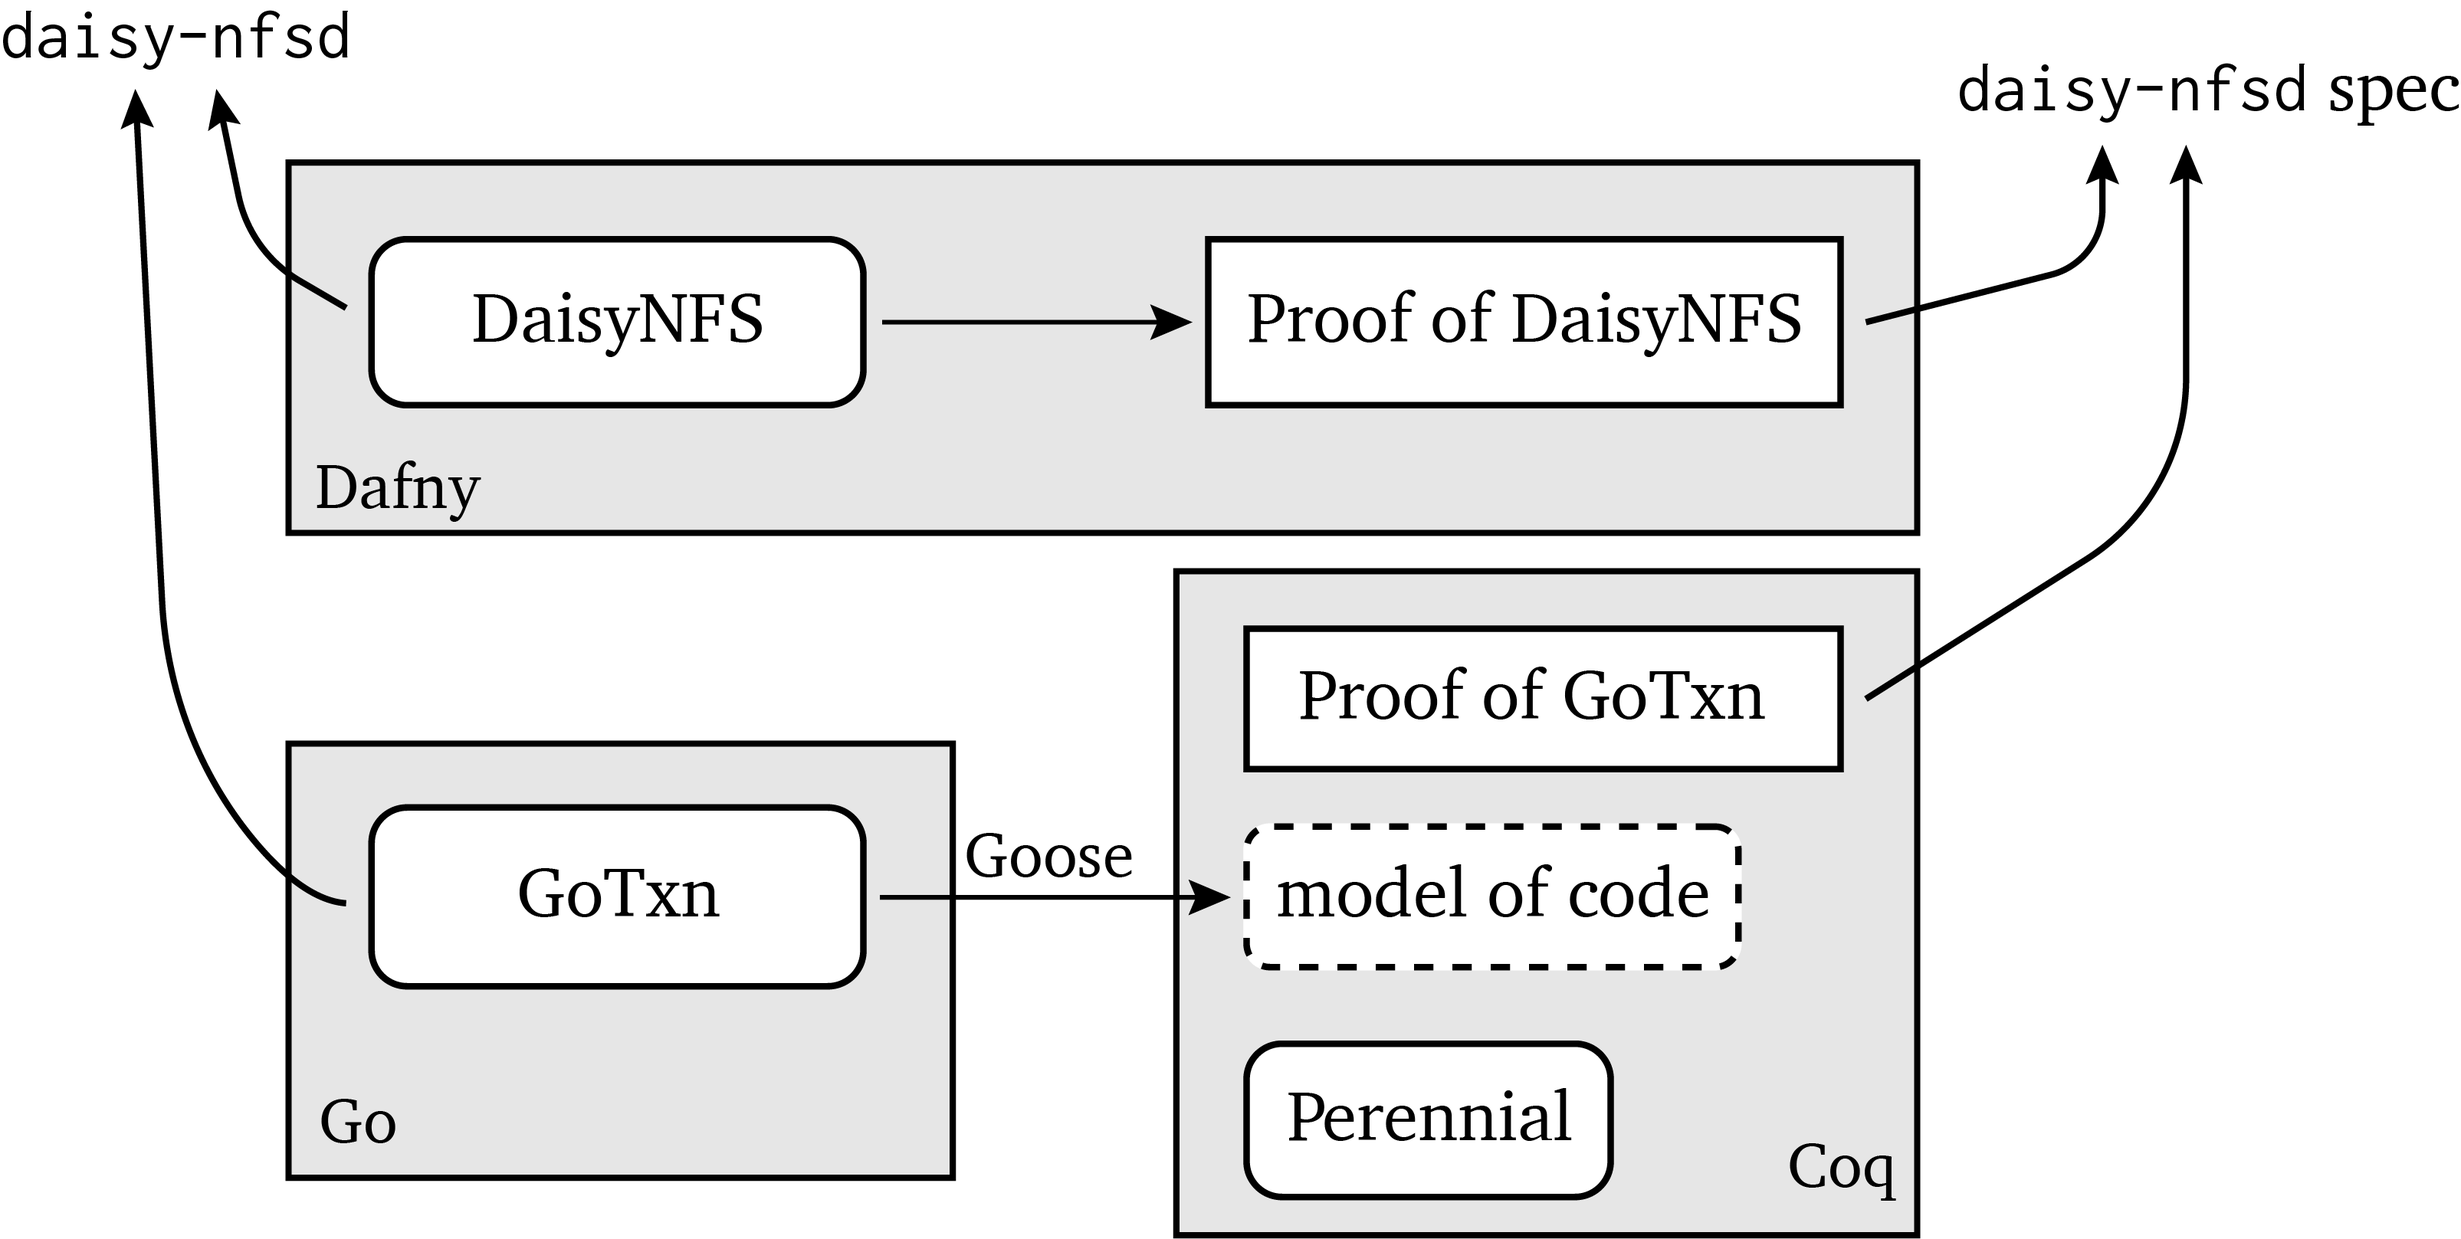
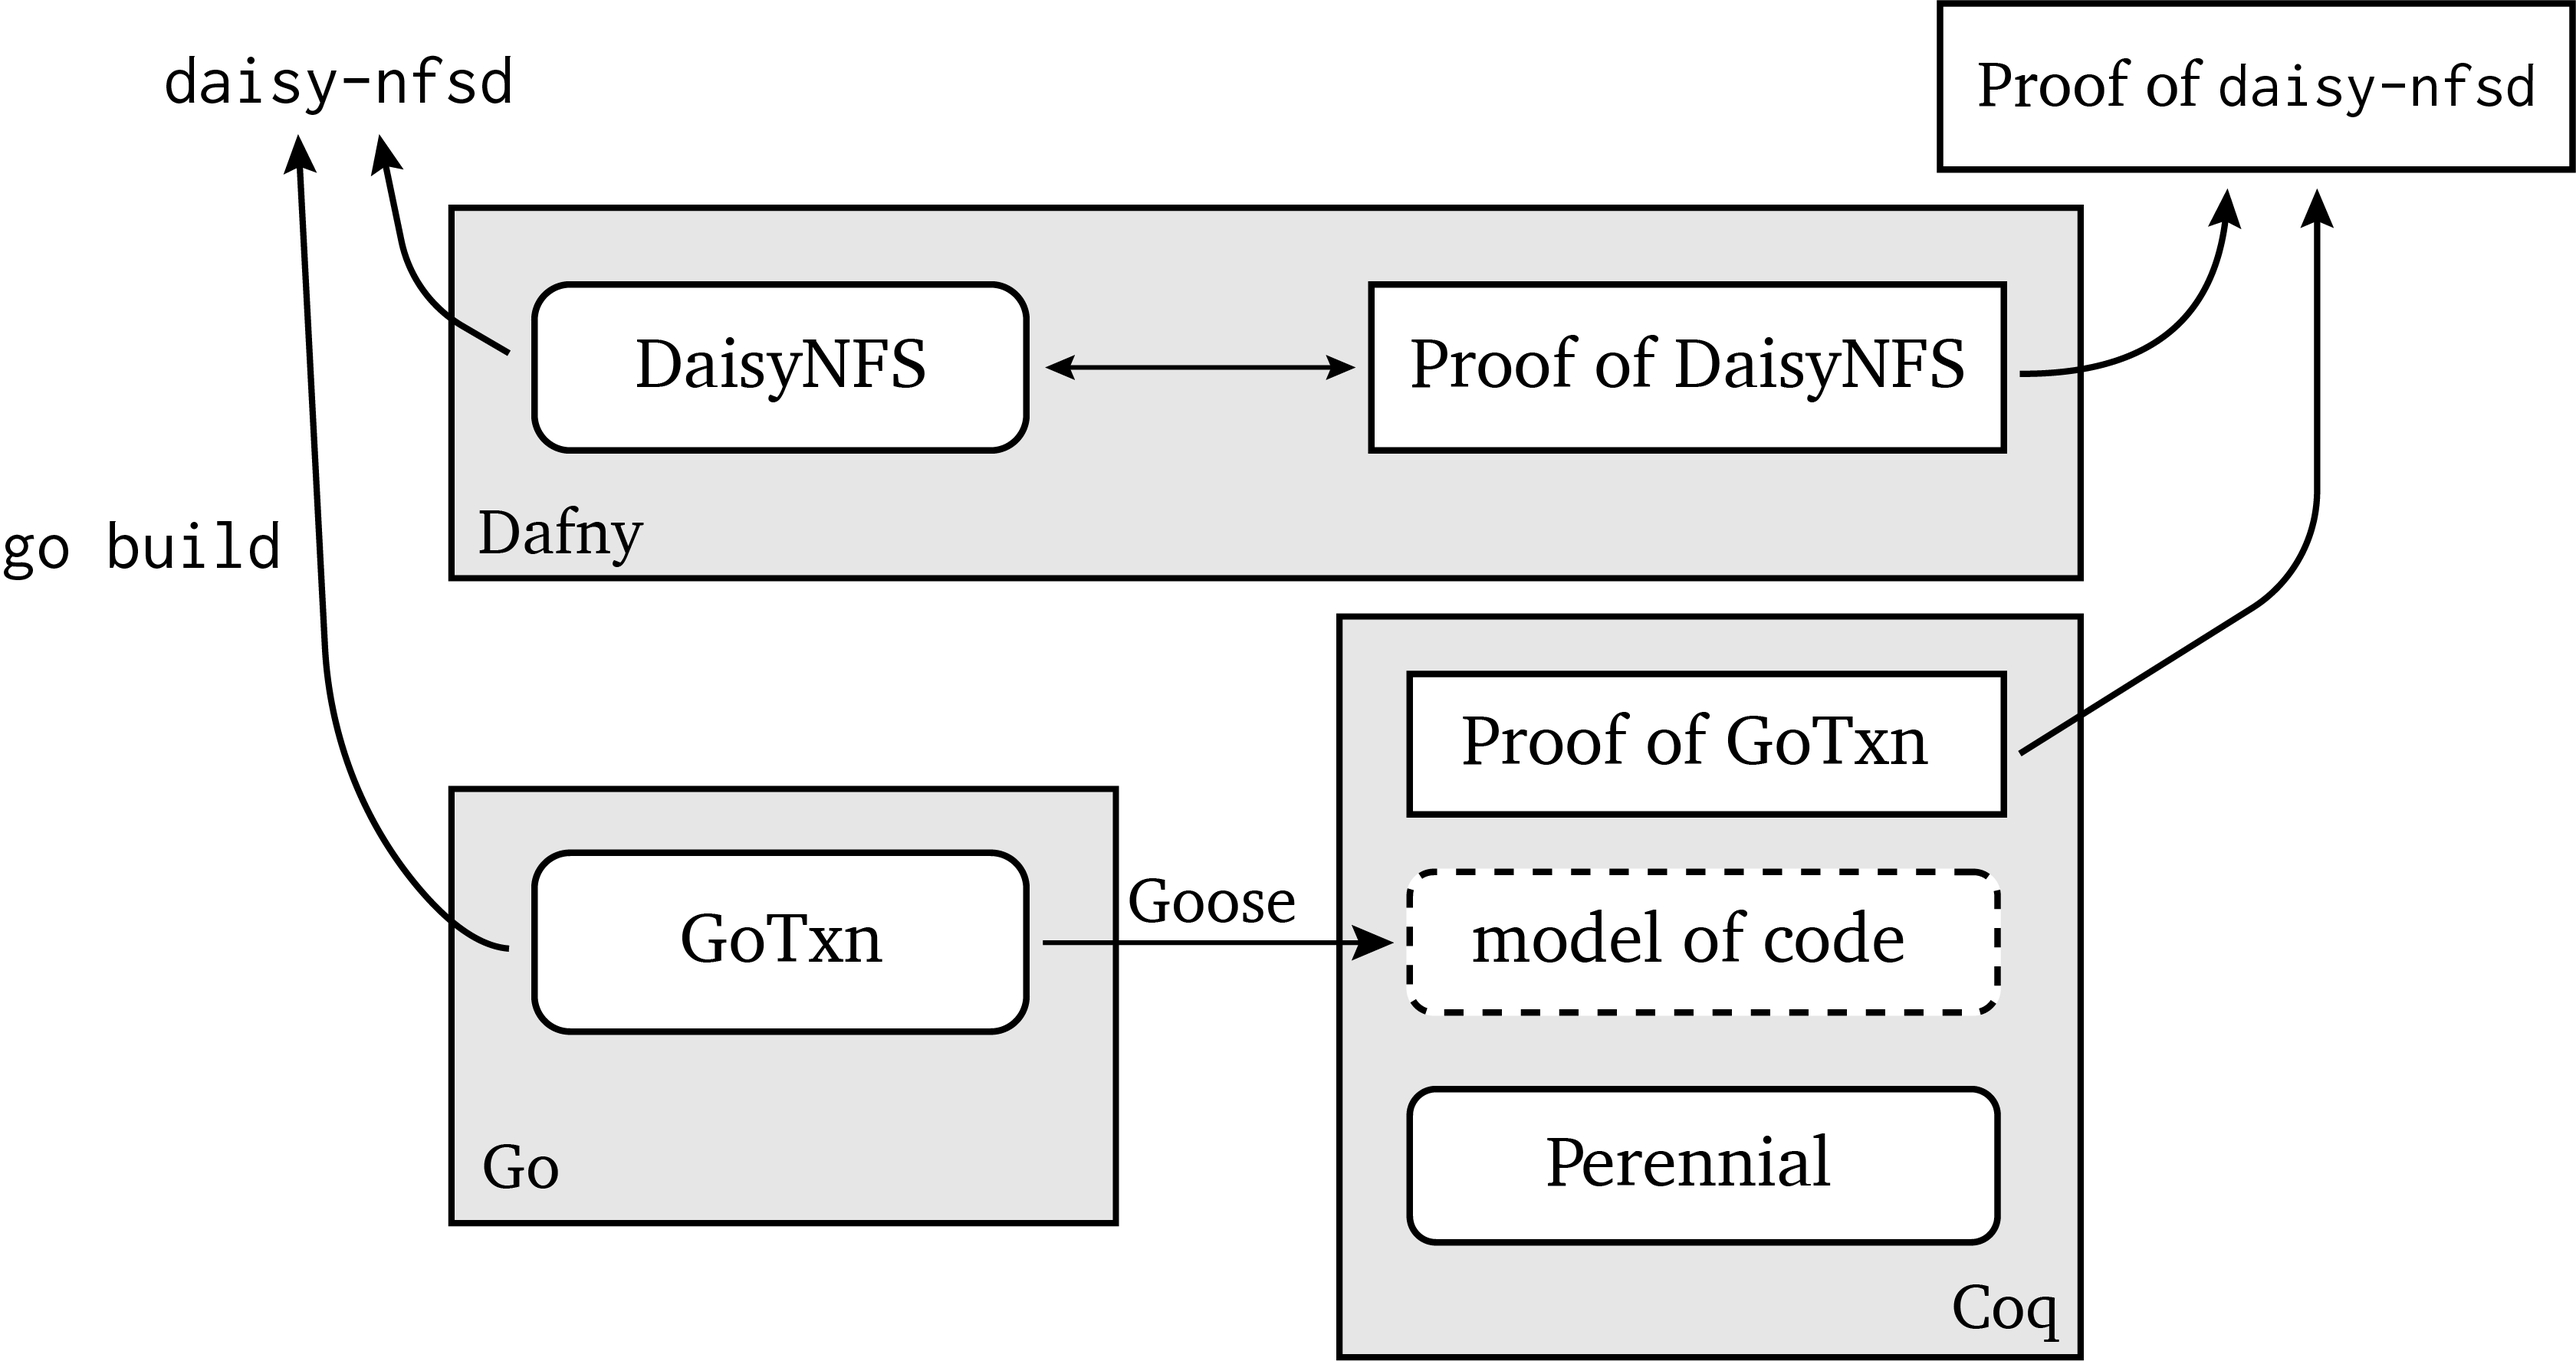
Fit overview figure in better

Changed region(s): [[0.0, 0.0, 1.0, 1.0]]

diff --git a/01-introduction.tex b/01-introduction.tex
@@ -122,7 +122,8 @@ enough that this section describes them separately.
 In Coq, the core feature is proofs based on dependent type theory, which is
 expressive enough to represent essentially any math. A first step when using Coq
 is to connect the code to the reasoning in the proof assistant. The particular
-approach in this thesis translates executable code to a model in Coq. The model
+approach in this thesis translates executable code to a model in Coq,
+implemented by a tool called Goose. The model
 and its semantics encodes the
 assumptions the proof makes about how the program behaves. The semantics is typically structured as a transition
 system, where an execution is a sequence of states the program goes through
@@ -135,7 +136,6 @@ where the specification describes the allowed behaviors of the program. The
 specifications in this work forbid universally incorrect behavior, like reading an
 out-of-bounds address in an array, but more precisely specify what the program
 is supposed to do, for example how it responds to user requests.
-
 
 A common structure to tame the complexity of reasoning about a program is to use
 a \emph{program logic}. In principle it might be possible to prove a theorem
@@ -185,6 +185,27 @@ generally fewer annotations are needed than lines of proof for Coq. The main
 downside to this approach is that it fixes a sequential programming language, so
 unlike in Coq, it isn't possible to reason about concurrency and crashes.
 
+\Cref{fig:overview} depicts how all of the components of DaisyNFS and its proof
+fit together. The left-hand side depicts the implementation, split between GoTxn
+and the file-system implemented in Dafny. The Dafny code is compiled to Go and
+then the two parts are linked together into one \cc{daisy-nfsd} binary in the
+usual Go build process. GoTxn is translated to a model using a tool called
+Goose. The right-hand side of the figure depicts all aspects related to the
+proof, which is written using the Perennial program logic. All of this happens
+in the Coq proof assistant, which checks that the proofs are valid. Meanwhile
+the DaisyNFS file-system code is verified in Dafny, which integrates
+implementing, specifying, and verifying code. This proof is checked by the Dafny
+verifier. Finally, the proof of GoTxn is written in such a way that it can be
+composed with the proof of DaisyNFS for a theorem about the whole
+\cc{daisy-nfsd} binary. This is a conceptual composition, not one in either
+Dafny or Coq.
+
+\begin{figure}[ht]
+\includegraphics{fig/overview.png}
+\caption{Overview of how GoTxn, DaisyNFS, and the proofs fit together.}
+\label{fig:overview}
+\end{figure}
+
 One of the contributions of this thesis is that the file-system design isolates
 concurrency and crash safety into the transaction system. This structure leaves
 the rest of the implementation only to \emph{sequentially} implement the
@@ -207,23 +228,6 @@ sequential simulation proof shows those atomic transactions implement the
 abstract specification. However, the GoTxn theorem formalizes precisely what
 conditions are required for the simulation transfer, including restrictions on
 the transactions and exactly what crash safety guarantees are achieved.
-
-\Cref{fig:overview} depicts how the artifacts of this thesis combine. \tej{refer
-to this figure earlier in this section} GoTxn is
-implemented in Go and verified using Perennial in Coq. Goose is the system that
-connects the code to a model suitable for reasoning in Perennial. Separately,
-DaisyNFS implements the file-system operations in Dafny, which has integrated
-support for code and proofs. On the left-hand side of the figure,
-\cc{daisy-nfsd} uses the verified code for DaisyNFS (compiled from Dafny to Go)
-and GoTxn to implement a complete NFS server. On the right-hand side, the GoTxn
-simulation transfer theorem takes the DaisyNFS Dafny proof and turns it into an
-overall correctness theorem for the whole server.
-
-\begin{figure}
-\includegraphics{fig/overview.png}
-\caption{Overview of how GoTxn, DaisyNFS, and the proofs fit together.}
-\label{fig:overview}
-\end{figure}
 
 \section{What is the value of verifying a file system?}
 
